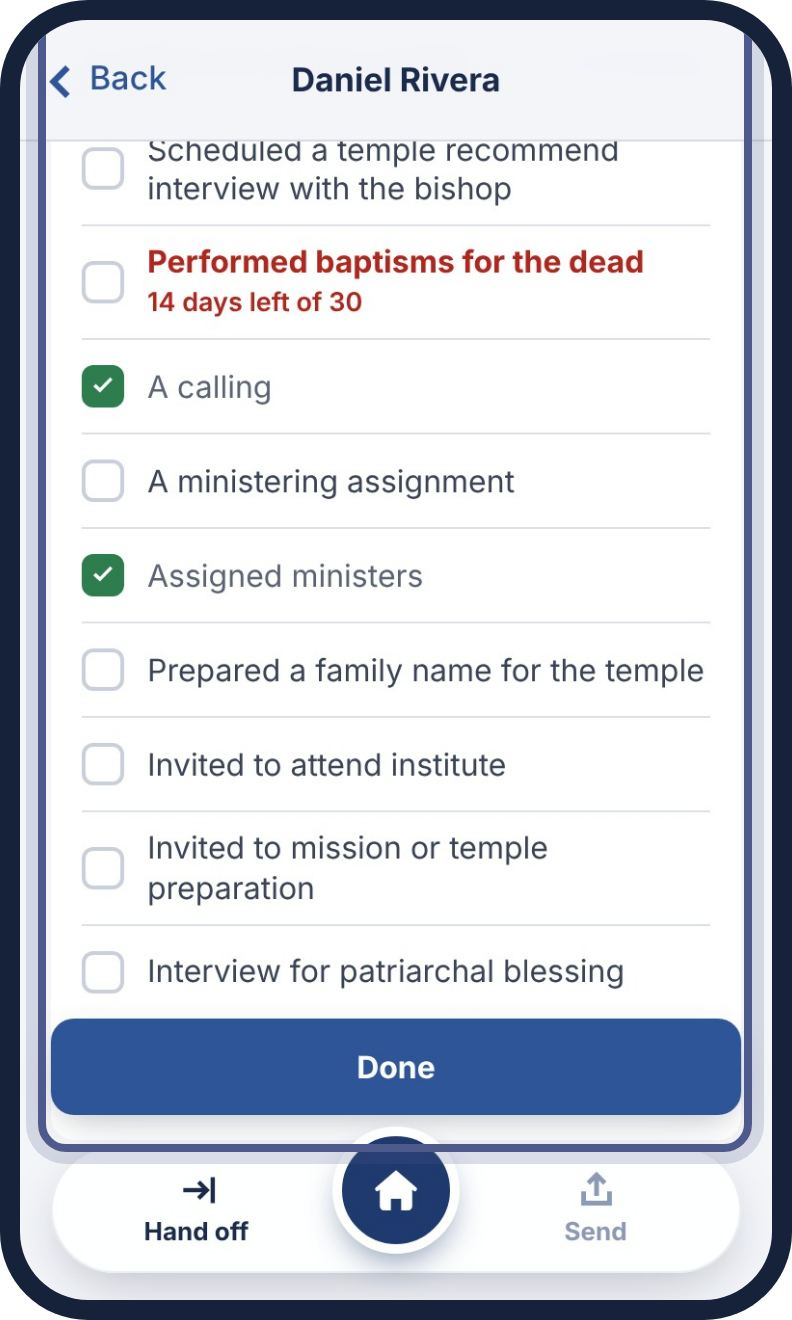
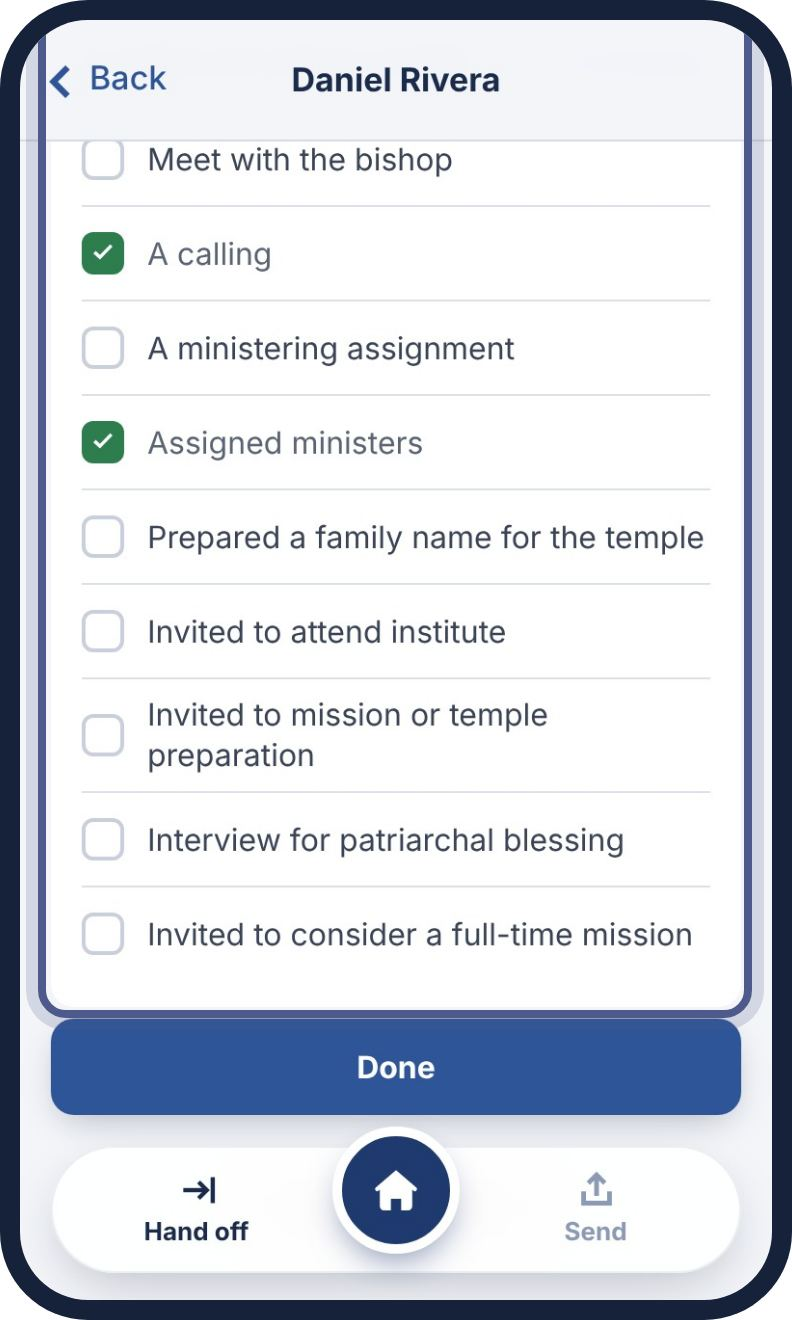
Baptisms for the dead under the baptism date until done, Meet with the bishop, What will help clears after a send, ward council's check needs What will help; test copy: open Part-Member Families in Safari
Claude-Session: https://claude.ai/code/session_01PW98YcMvh8WynmxGN9Y5LD

Changed region(s): [[0.0303, 0.0932, 0.9697, 0.9008], [0.697, 0.3727, 0.8788, 0.4348]]

diff --git a/try/app.js b/try/app.js
@@ -122,7 +122,7 @@
    * A new member's "Performed baptisms for the dead" is the temple check (a.temple), with its 30-day countdown. */
   var CHECKLISTS = {
     nm: [
-      { k: 'recint', t: 'Scheduled a temple recommend interview with the bishop', help: 'Schedule a temple recommend interview with the bishop' },
+      { k: 'recint', t: 'Meet with the bishop', help: 'Meet with the bishop' },
       { k: 'bfd', t: 'Performed baptisms for the dead', help: 'Perform baptisms for the dead', temple: true },
       { k: 'calling', t: 'A calling', help: 'A calling' },
       { k: 'minassign', t: 'A ministering assignment', help: 'A ministering assignment' },
@@ -141,7 +141,7 @@
       { k: 'minassign', t: 'A ministering assignment', help: 'A ministering assignment' },
       { k: 'ministers', t: 'Assigned ministers', help: 'Assigned ministers' },
       { k: 'famname', t: 'Prepared a family name for the temple', help: 'Prepare a family name for the temple' },
-      { k: 'recint', t: 'Scheduled a temple recommend interview with the bishop', help: 'Schedule a temple recommend interview with the bishop' },
+      { k: 'recint', t: 'Meet with the bishop', help: 'Meet with the bishop' },
       { k: 'bfd', t: 'Performed baptisms for the dead', help: 'Perform baptisms for the dead' },
       { k: 'endow', t: 'Received endowment', help: 'Receive the endowment', opt: true },
       { k: 'sealparents', t: 'Sealed to parents', help: 'Be sealed to parents', opt: true },
@@ -158,10 +158,10 @@
   var ORD_IDEAS = {
     'Baptism': { label: 'Ideas for baptism', items: ['Attend sacrament meeting', 'Friends at church', 'Meet the bishop', 'Participate in family history'] },
     'Sacrament': { label: 'Ideas for the sacrament', items: ['Friends at church', 'Assigned ministers', 'A calling'] },
-    'Baptisms for the dead': { label: 'Ideas for baptisms for the dead', items: ['Schedule a temple recommend interview with the bishop', 'Prepare a family name for the temple'] },
+    'Baptisms for the dead': { label: 'Ideas for baptisms for the dead', items: ['Meet with the bishop', 'Prepare a family name for the temple'] },
     'Priesthood advancement': { label: 'Ideas for priesthood advancement', items: ['Meet the bishop', 'Friends at church', 'Assigned ministers', 'A calling'] },
-    'Endowment': { label: 'Ideas for the endowment', items: ['Schedule a temple recommend interview with the bishop', 'Invite to temple preparation', 'Prepare a family name for the temple'] },
-    'Sealing': { label: 'Ideas for sealing', items: ['Schedule a temple recommend interview with the bishop', 'Invite to temple preparation'] }
+    'Endowment': { label: 'Ideas for the endowment', items: ['Meet with the bishop', 'Invite to temple preparation', 'Prepare a family name for the temple'] },
+    'Sealing': { label: 'Ideas for sealing', items: ['Meet with the bishop', 'Invite to temple preparation'] }
   };
   var CHECK_KEYS = {}; Object.keys(CHECKLISTS).forEach(function (g) { CHECKLISTS[g].forEach(function (c) { CHECK_KEYS[c.k] = 1; }); });
   function cleanChecks(c) {
@@ -964,6 +964,7 @@
         zoneLabel('bw', 'Covenant Path Report'),
         h('div', { class: 'card-grid' }, [
           g === 'nm' ? field('Baptism date', base + 'bap', { type: 'date', full: true }) : null,
+          g === 'nm' && !a.temple ? h('ul', { class: 'ck-list full ck-up' }, [ckRow(g, r.i, a, CHECKLISTS.nm.filter(function (c) { return c.temple; })[0])]) : null,
           // Those being taught: a baptism date means they're committed (left blank until they are)
           g === 'bt' ? field('Baptism date', base + 'bap', { type: 'date', full: true }) : null,
           g === 'bt' ? field('Next scheduled appointment', base + 'appt', { type: 'date', full: true }) : null
@@ -977,7 +978,12 @@
     var cc = checkCount(a, g);
     return h('div', { class: 'card-zone zone-bw-wrap checklist' }, [
       h('div', { class: 'zone-label-row' }, [zoneLabel('bw', 'Check off what’s done'), h('span', { class: 'ck-count', text: cc.done + ' of ' + cc.of + ' done' })]),
-      h('ul', { class: 'ck-list' }, (CHECKLISTS[g] || []).map(function (c) {
+      h('ul', { class: 'ck-list' }, (CHECKLISTS[g] || []).filter(function (c) { return !bfdUp(g, a, c); }).map(function (c) { return ckRow(g, i, a, c); }))
+    ]);
+  }
+  // A new member's baptisms for the dead sits right under the baptism date until it's done (the user decided, Nov 18, 2026).
+  function bfdUp(g, a, c) { return !!c.temple && g === 'nm' && !a.temple; }
+  function ckRow(g, i, a, c) {
         var v = checkOf(a, g, c), sub = null;
         if (c.temple && g === 'nm') { var st = templeStatus(a, state.date); if (!v) sub = h('span', { class: 'ck-sub due', text: st.text }); }
         return h('li', { class: 'ck-li' + (v === true ? ' is-done' : v === 'na' ? ' is-na' : '') + (c.temple && g === 'nm' && !v ? ' is-temple' : '') }, [
@@ -987,8 +993,6 @@
           ]),
           c.opt ? h('button', { type: 'button', class: 'ck-na', 'aria-pressed': v === 'na' ? 'true' : 'false', 'data-action': 'check-na', 'data-a': g + '|' + i, 'data-b': c.k, text: 'Doesn’t apply' }) : null
         ]);
-      }))
-    ]);
   }
   // "Attended sacrament" checkbox in the top right of each name card.
   function sacToggle(path, on) {
@@ -1959,10 +1963,11 @@
       return { done: n, of: STEPS.length, text: n === STEPS.length ? 'All ' + n + ' sections done' : n + ' of ' + STEPS.length + ' sections done' };
     }
     if (key !== 'wc') return null;
-    var named = allNames().map(function (x) { return { a: x.a, g: x.gid }; }).concat(state.tn.filter(function (a) { return str(a.name).trim(); }).map(function (a) { return { a: a, g: 'tn' }; }));
-    if (!named.length) return null;
-    var have = named.filter(function (x) { return ordOf(x.a, x.g); }).length, all = have === named.length;
-    return { done: have, of: named.length, text: all ? (have === 1 ? 'The 1 name has a next ordinance' : 'All ' + have + ' names have a next ordinance') : have + ' of ' + named.length + ' names have a next ordinance' };
+    // Ward council is done when every focus name has What will help (it clears after each send, so the check does too).
+    var fn = state.tn.filter(function (a) { return str(a.name).trim(); });
+    if (!fn.length) return null;
+    var have = fn.filter(function (a) { return str(a.need).trim(); }).length, all = have === fn.length;
+    return { done: have, of: fn.length, text: all ? (have === 1 ? 'The focus name has What will help' : 'All ' + have + ' focus names have What will help') : have + ' of ' + fn.length + ' focus names have What will help' };
   }
   function renderHeroes() {
     Array.prototype.forEach.call(document.querySelectorAll('[data-hero]'), function (el) {
@@ -2288,7 +2293,7 @@
 
   // The two doors on the opening screen say where things stand.
   // The opening screen's four steps as a timeline: each is done, or the first one not done is "Up next".
-  // Ward council is done when every name has a next ordinance; the Huddle when all five sections are marked done.
+  // Ward council is done when every focus name has What will help; the Huddle when all its sections are marked done.
   function stepsDoneState() {
     var wc = heroProgress('wc'), hd = heroProgress('hd');
     return [!!state.verified.before, !!(wc && wc.done === wc.of), !!(hd && hd.done === hd.of), !!state.verified.after];
@@ -3274,7 +3279,7 @@
     { k: 'Step 1 · Before ward council', t: 'The opening screen has four steps, in order. Tap **Step 1 · Before ward council**.', target: '#before-box', done: function () { return view === 'bw' || state.verified.before; } },
     { k: 'Step 1 · Before ward council', t: 'Before ward council mirrors the Covenant Path Report. Tap a name and check off what they’ve done, then tap **Mark done** at the bottom.', target: '#before-done-btn', done: function () { return !!state.verified.before; } },
     { k: 'Step 2 · Ward council', t: 'Step 1 has its green check. Now tap **Step 2 · Ward council**.', target: '.door-wc', done: function () { return view === 'wc' || isWcList(view) || view === 'p-wc'; } },
-    { k: 'Step 2 · Ward council', t: 'Ward council identifies focus names; **Open Part-Member Families** helps find names, and for ideas tap **How can we help?** on a list. Tap **Focus names**, then **Samuel Ortiz**, choose his next ordinance and add **What will help**. Never add confidential information to this huddle report.', target: ['[data-wc="tn"] [data-b="1"]', '[data-action="open-wc-list"][data-a="tn"]', '#person-card select'], done: function () { var a = state.tn[1]; return !!(a && ORDINANCES.indexOf(str(a.ordinance)) >= 0); } },
+    { k: 'Step 2 · Ward council', t: 'Ward council identifies focus names; **Open Part-Member Families** helps find names, and for ideas tap **How can we help?** on a list. Tap **Focus names**, then **Samuel Ortiz**, choose his next ordinance and add **What will help**. Never add confidential information to this huddle report.', target: ['[data-wc="tn"] [data-b="1"]', '[data-action="open-wc-list"][data-a="tn"]', '#person-card select'], done: function () { var a = state.tn[1]; return !!(a && ORDINANCES.indexOf(str(a.ordinance)) >= 0 && str(a.need).trim()); } },
     { k: 'Step 2 · Ward council', t: 'Names marked **Suggested focus name** are pressing. Tap **Done**, then **Back**, **Covenant Path Report** and **Daniel Rivera**, and tap **Make focus name**.', target: ['#person-card [data-action="make-focus"]', '[data-wc="nm"] [data-b="0"]', '[data-action="open-wc-list"][data-a="cp"]', '#person-view .person-done', '.step-back'], done: function () { return focusIndex('Daniel Rivera') >= 0; } },
     { k: 'Step 3 · Huddle', t: 'Every name has a next ordinance, so Step 2 is done. Tap **Home** at the bottom, then **Step 3 · Huddle**.', target: ['.nav-home:not(.is-here)', '.door-hd'], done: function () { return view === 'home'; } },
     { k: 'Step 3 · Huddle', t: 'Tap **Huddle Attendees** and tap who came. Tap **both youth**, the priests quorum assistant and the Gatherers of Light representative: including the youth matters.', target: ['#attendee-list', '#details-summary'], done: function () { return state.attendees.indexOf('pqa') >= 0 && state.attendees.indexOf('gol') >= 0; } },
@@ -3430,7 +3435,7 @@
       var cur = state.cp[g.id].filter(function (a) { return a.sac || hasText(a, CARD_KEYS); });
       names.forEach(function (n) {
         if (cur.some(function (a) { return norm(a.name) === norm(n); })) return;
-        var c = blankAction(); c.name = n; c.ordinance = info[norm(n)].ordinance; c.need = info[norm(n)].need; c.hneed = info[norm(n)].hneed; c.carried = true; c.touched = info[norm(n)].touched; c.lastSac = info[norm(n)].sac; c.checks = info[norm(n)].checks;
+        var c = blankAction(); c.name = n; c.ordinance = info[norm(n)].ordinance; c.hneed = info[norm(n)].hneed; c.carried = true; c.touched = info[norm(n)].touched; c.lastSac = info[norm(n)].sac; c.checks = info[norm(n)].checks;
         if (g.id === 'nm') { c.bap = info[norm(n)].bap; c.temple = info[norm(n)].temple; }
         if (g.id === 'bt') { c.bap = info[norm(n)].bap; c.committed = info[norm(n)].committed; c.appt = apptNote({ appt: info[norm(n)].appt }) ? info[norm(n)].appt : ''; }
         cur.push(c);
@@ -3444,7 +3449,7 @@
       if (!n || state.tn.some(function (t) { return norm(t.name) === norm(n); })) return;
       var slot = state.tn.findIndex(function (t) { return !t.sac && !hasText(t, CARD_KEYS); });
       if (slot < 0) return;
-      var c = blankName(); c.name = n; c.ordinance = str(a.ordinance).trim(); c.need = str(a.need).trim(); c.hneed = str(a.hneed).trim(); c.carried = true; c.lastSac = !!a.sac;
+      var c = blankName(); c.name = n; c.ordinance = str(a.ordinance).trim(); c.hneed = str(a.hneed).trim(); c.carried = true; c.lastSac = !!a.sac;
       c.touched = parseISO(str(a.touched)) ? str(a.touched) : '';
       state.tn[slot] = c;
       added++;
@@ -3614,6 +3619,11 @@
     if (!opts.practice && !state.ward.trim() && data.ward) { state.ward = str(data.ward); $('#ward').value = state.ward; writeWard(state.ward); }
     var carried = carryNames(data);
     if (opts.practice) state.referrals = cleanReferrals(data.referrals);
+    if (opts.practice) { // What will help clears each week; the practice week keeps the sample ones, except Samuel's (the tour asks for it)
+      var pd = practiceData(), keepNeed = function (list, src) { list.forEach(function (a) { var m = src.filter(function (x) { return norm(x.name) === norm(a.name); })[0];
+        if (m && !str(a.need).trim() && norm(a.name) !== norm('Samuel Ortiz')) a.need = m.need; }); };
+      keepNeed(state.tn, pd.tn); GROUPS.forEach(function (g) { keepNeed(state.cp[g.id], pd.cp[g.id] || []); });
+    }
     renderRR(); renderCP(); renderTN(); renderMR(); saveDraft();
     toast(opts.practice ? 'Practice week loaded: sample names, with ' + items.length + ' sample assignments in Return and Report.'
       : 'Loaded ' + items.length + (items.length === 1 ? ' action item' : ' action items') +
@@ -4709,6 +4719,9 @@
       if (top) dismissSheet(top);
     });
     enableSwipeDown(); enableSwipeRemove();
+    // Test copy only: on an iPhone Home Screen app, open Part-Member Families in Safari itself instead of the panel
+    // over the app, using an unofficial link form (x-safari-https://). If the phone ignores it, the link works as before.
+    try { var pmfL = document.getElementById('wc-pmf'); if (pmfL && (navigator.standalone || matchMedia('(display-mode: standalone)').matches) && /iPhone|iPad|iPod/.test(navigator.userAgent) && /^https:/.test(pmfL.href)) { pmfL.href = 'x-safari-' + pmfL.href; pmfL.removeAttribute('target'); } } catch (e) { /* ignore */ }
     // The opening picture stays a moment (about a second and a half from launch), then fades away.
     var splash = $('#splash');
     if (splash) setTimeout(function () { splash.classList.add('out'); setTimeout(function () { splash.remove(); }, 450); }, 1100);

diff --git a/app.js b/app.js
@@ -122,7 +122,7 @@
    * A new member's "Performed baptisms for the dead" is the temple check (a.temple), with its 30-day countdown. */
   var CHECKLISTS = {
     nm: [
-      { k: 'recint', t: 'Scheduled a temple recommend interview with the bishop', help: 'Schedule a temple recommend interview with the bishop' },
+      { k: 'recint', t: 'Meet with the bishop', help: 'Meet with the bishop' },
       { k: 'bfd', t: 'Performed baptisms for the dead', help: 'Perform baptisms for the dead', temple: true },
       { k: 'calling', t: 'A calling', help: 'A calling' },
       { k: 'minassign', t: 'A ministering assignment', help: 'A ministering assignment' },
@@ -141,7 +141,7 @@
       { k: 'minassign', t: 'A ministering assignment', help: 'A ministering assignment' },
       { k: 'ministers', t: 'Assigned ministers', help: 'Assigned ministers' },
       { k: 'famname', t: 'Prepared a family name for the temple', help: 'Prepare a family name for the temple' },
-      { k: 'recint', t: 'Scheduled a temple recommend interview with the bishop', help: 'Schedule a temple recommend interview with the bishop' },
+      { k: 'recint', t: 'Meet with the bishop', help: 'Meet with the bishop' },
       { k: 'bfd', t: 'Performed baptisms for the dead', help: 'Perform baptisms for the dead' },
       { k: 'endow', t: 'Received endowment', help: 'Receive the endowment', opt: true },
       { k: 'sealparents', t: 'Sealed to parents', help: 'Be sealed to parents', opt: true },
@@ -158,10 +158,10 @@
   var ORD_IDEAS = {
     'Baptism': { label: 'Ideas for baptism', items: ['Attend sacrament meeting', 'Friends at church', 'Meet the bishop', 'Participate in family history'] },
     'Sacrament': { label: 'Ideas for the sacrament', items: ['Friends at church', 'Assigned ministers', 'A calling'] },
-    'Baptisms for the dead': { label: 'Ideas for baptisms for the dead', items: ['Schedule a temple recommend interview with the bishop', 'Prepare a family name for the temple'] },
+    'Baptisms for the dead': { label: 'Ideas for baptisms for the dead', items: ['Meet with the bishop', 'Prepare a family name for the temple'] },
     'Priesthood advancement': { label: 'Ideas for priesthood advancement', items: ['Meet the bishop', 'Friends at church', 'Assigned ministers', 'A calling'] },
-    'Endowment': { label: 'Ideas for the endowment', items: ['Schedule a temple recommend interview with the bishop', 'Invite to temple preparation', 'Prepare a family name for the temple'] },
-    'Sealing': { label: 'Ideas for sealing', items: ['Schedule a temple recommend interview with the bishop', 'Invite to temple preparation'] }
+    'Endowment': { label: 'Ideas for the endowment', items: ['Meet with the bishop', 'Invite to temple preparation', 'Prepare a family name for the temple'] },
+    'Sealing': { label: 'Ideas for sealing', items: ['Meet with the bishop', 'Invite to temple preparation'] }
   };
   var CHECK_KEYS = {}; Object.keys(CHECKLISTS).forEach(function (g) { CHECKLISTS[g].forEach(function (c) { CHECK_KEYS[c.k] = 1; }); });
   function cleanChecks(c) {
@@ -964,6 +964,7 @@
         zoneLabel('bw', 'Covenant Path Report'),
         h('div', { class: 'card-grid' }, [
           g === 'nm' ? field('Baptism date', base + 'bap', { type: 'date', full: true }) : null,
+          g === 'nm' && !a.temple ? h('ul', { class: 'ck-list full ck-up' }, [ckRow(g, r.i, a, CHECKLISTS.nm.filter(function (c) { return c.temple; })[0])]) : null,
           // Those being taught: a baptism date means they're committed (left blank until they are)
           g === 'bt' ? field('Baptism date', base + 'bap', { type: 'date', full: true }) : null,
           g === 'bt' ? field('Next scheduled appointment', base + 'appt', { type: 'date', full: true }) : null
@@ -977,7 +978,12 @@
     var cc = checkCount(a, g);
     return h('div', { class: 'card-zone zone-bw-wrap checklist' }, [
       h('div', { class: 'zone-label-row' }, [zoneLabel('bw', 'Check off what’s done'), h('span', { class: 'ck-count', text: cc.done + ' of ' + cc.of + ' done' })]),
-      h('ul', { class: 'ck-list' }, (CHECKLISTS[g] || []).map(function (c) {
+      h('ul', { class: 'ck-list' }, (CHECKLISTS[g] || []).filter(function (c) { return !bfdUp(g, a, c); }).map(function (c) { return ckRow(g, i, a, c); }))
+    ]);
+  }
+  // A new member's baptisms for the dead sits right under the baptism date until it's done (the user decided, Nov 18, 2026).
+  function bfdUp(g, a, c) { return !!c.temple && g === 'nm' && !a.temple; }
+  function ckRow(g, i, a, c) {
         var v = checkOf(a, g, c), sub = null;
         if (c.temple && g === 'nm') { var st = templeStatus(a, state.date); if (!v) sub = h('span', { class: 'ck-sub due', text: st.text }); }
         return h('li', { class: 'ck-li' + (v === true ? ' is-done' : v === 'na' ? ' is-na' : '') + (c.temple && g === 'nm' && !v ? ' is-temple' : '') }, [
@@ -987,8 +993,6 @@
           ]),
           c.opt ? h('button', { type: 'button', class: 'ck-na', 'aria-pressed': v === 'na' ? 'true' : 'false', 'data-action': 'check-na', 'data-a': g + '|' + i, 'data-b': c.k, text: 'Doesn’t apply' }) : null
         ]);
-      }))
-    ]);
   }
   // "Attended sacrament" checkbox in the top right of each name card.
   function sacToggle(path, on) {
@@ -1959,10 +1963,11 @@
       return { done: n, of: STEPS.length, text: n === STEPS.length ? 'All ' + n + ' sections done' : n + ' of ' + STEPS.length + ' sections done' };
     }
     if (key !== 'wc') return null;
-    var named = allNames().map(function (x) { return { a: x.a, g: x.gid }; }).concat(state.tn.filter(function (a) { return str(a.name).trim(); }).map(function (a) { return { a: a, g: 'tn' }; }));
-    if (!named.length) return null;
-    var have = named.filter(function (x) { return ordOf(x.a, x.g); }).length, all = have === named.length;
-    return { done: have, of: named.length, text: all ? (have === 1 ? 'The 1 name has a next ordinance' : 'All ' + have + ' names have a next ordinance') : have + ' of ' + named.length + ' names have a next ordinance' };
+    // Ward council is done when every focus name has What will help (it clears after each send, so the check does too).
+    var fn = state.tn.filter(function (a) { return str(a.name).trim(); });
+    if (!fn.length) return null;
+    var have = fn.filter(function (a) { return str(a.need).trim(); }).length, all = have === fn.length;
+    return { done: have, of: fn.length, text: all ? (have === 1 ? 'The focus name has What will help' : 'All ' + have + ' focus names have What will help') : have + ' of ' + fn.length + ' focus names have What will help' };
   }
   function renderHeroes() {
     Array.prototype.forEach.call(document.querySelectorAll('[data-hero]'), function (el) {
@@ -2288,7 +2293,7 @@
 
   // The two doors on the opening screen say where things stand.
   // The opening screen's four steps as a timeline: each is done, or the first one not done is "Up next".
-  // Ward council is done when every name has a next ordinance; the Huddle when all five sections are marked done.
+  // Ward council is done when every focus name has What will help; the Huddle when all its sections are marked done.
   function stepsDoneState() {
     var wc = heroProgress('wc'), hd = heroProgress('hd');
     return [!!state.verified.before, !!(wc && wc.done === wc.of), !!(hd && hd.done === hd.of), !!state.verified.after];
@@ -3274,7 +3279,7 @@
     { k: 'Step 1 · Before ward council', t: 'The opening screen has four steps, in order. Tap **Step 1 · Before ward council**.', target: '#before-box', done: function () { return view === 'bw' || state.verified.before; } },
     { k: 'Step 1 · Before ward council', t: 'Before ward council mirrors the Covenant Path Report. Tap a name and check off what they’ve done, then tap **Mark done** at the bottom.', target: '#before-done-btn', done: function () { return !!state.verified.before; } },
     { k: 'Step 2 · Ward council', t: 'Step 1 has its green check. Now tap **Step 2 · Ward council**.', target: '.door-wc', done: function () { return view === 'wc' || isWcList(view) || view === 'p-wc'; } },
-    { k: 'Step 2 · Ward council', t: 'Ward council identifies focus names; **Open Part-Member Families** helps find names, and for ideas tap **How can we help?** on a list. Tap **Focus names**, then **Samuel Ortiz**, choose his next ordinance and add **What will help**. Never add confidential information to this huddle report.', target: ['[data-wc="tn"] [data-b="1"]', '[data-action="open-wc-list"][data-a="tn"]', '#person-card select'], done: function () { var a = state.tn[1]; return !!(a && ORDINANCES.indexOf(str(a.ordinance)) >= 0); } },
+    { k: 'Step 2 · Ward council', t: 'Ward council identifies focus names; **Open Part-Member Families** helps find names, and for ideas tap **How can we help?** on a list. Tap **Focus names**, then **Samuel Ortiz**, choose his next ordinance and add **What will help**. Never add confidential information to this huddle report.', target: ['[data-wc="tn"] [data-b="1"]', '[data-action="open-wc-list"][data-a="tn"]', '#person-card select'], done: function () { var a = state.tn[1]; return !!(a && ORDINANCES.indexOf(str(a.ordinance)) >= 0 && str(a.need).trim()); } },
     { k: 'Step 2 · Ward council', t: 'Names marked **Suggested focus name** are pressing. Tap **Done**, then **Back**, **Covenant Path Report** and **Daniel Rivera**, and tap **Make focus name**.', target: ['#person-card [data-action="make-focus"]', '[data-wc="nm"] [data-b="0"]', '[data-action="open-wc-list"][data-a="cp"]', '#person-view .person-done', '.step-back'], done: function () { return focusIndex('Daniel Rivera') >= 0; } },
     { k: 'Step 3 · Huddle', t: 'Every name has a next ordinance, so Step 2 is done. Tap **Home** at the bottom, then **Step 3 · Huddle**.', target: ['.nav-home:not(.is-here)', '.door-hd'], done: function () { return view === 'home'; } },
     { k: 'Step 3 · Huddle', t: 'Tap **Huddle Attendees** and tap who came. Tap **both youth**, the priests quorum assistant and the Gatherers of Light representative: including the youth matters.', target: ['#attendee-list', '#details-summary'], done: function () { return state.attendees.indexOf('pqa') >= 0 && state.attendees.indexOf('gol') >= 0; } },
@@ -3430,7 +3435,7 @@
       var cur = state.cp[g.id].filter(function (a) { return a.sac || hasText(a, CARD_KEYS); });
       names.forEach(function (n) {
         if (cur.some(function (a) { return norm(a.name) === norm(n); })) return;
-        var c = blankAction(); c.name = n; c.ordinance = info[norm(n)].ordinance; c.need = info[norm(n)].need; c.hneed = info[norm(n)].hneed; c.carried = true; c.touched = info[norm(n)].touched; c.lastSac = info[norm(n)].sac; c.checks = info[norm(n)].checks;
+        var c = blankAction(); c.name = n; c.ordinance = info[norm(n)].ordinance; c.hneed = info[norm(n)].hneed; c.carried = true; c.touched = info[norm(n)].touched; c.lastSac = info[norm(n)].sac; c.checks = info[norm(n)].checks;
         if (g.id === 'nm') { c.bap = info[norm(n)].bap; c.temple = info[norm(n)].temple; }
         if (g.id === 'bt') { c.bap = info[norm(n)].bap; c.committed = info[norm(n)].committed; c.appt = apptNote({ appt: info[norm(n)].appt }) ? info[norm(n)].appt : ''; }
         cur.push(c);
@@ -3444,7 +3449,7 @@
       if (!n || state.tn.some(function (t) { return norm(t.name) === norm(n); })) return;
       var slot = state.tn.findIndex(function (t) { return !t.sac && !hasText(t, CARD_KEYS); });
       if (slot < 0) return;
-      var c = blankName(); c.name = n; c.ordinance = str(a.ordinance).trim(); c.need = str(a.need).trim(); c.hneed = str(a.hneed).trim(); c.carried = true; c.lastSac = !!a.sac;
+      var c = blankName(); c.name = n; c.ordinance = str(a.ordinance).trim(); c.hneed = str(a.hneed).trim(); c.carried = true; c.lastSac = !!a.sac;
       c.touched = parseISO(str(a.touched)) ? str(a.touched) : '';
       state.tn[slot] = c;
       added++;
@@ -3614,6 +3619,11 @@
     if (!opts.practice && !state.ward.trim() && data.ward) { state.ward = str(data.ward); $('#ward').value = state.ward; writeWard(state.ward); }
     var carried = carryNames(data);
     if (opts.practice) state.referrals = cleanReferrals(data.referrals);
+    if (opts.practice) { // What will help clears each week; the practice week keeps the sample ones, except Samuel's (the tour asks for it)
+      var pd = practiceData(), keepNeed = function (list, src) { list.forEach(function (a) { var m = src.filter(function (x) { return norm(x.name) === norm(a.name); })[0];
+        if (m && !str(a.need).trim() && norm(a.name) !== norm('Samuel Ortiz')) a.need = m.need; }); };
+      keepNeed(state.tn, pd.tn); GROUPS.forEach(function (g) { keepNeed(state.cp[g.id], pd.cp[g.id] || []); });
+    }
     renderRR(); renderCP(); renderTN(); renderMR(); saveDraft();
     toast(opts.practice ? 'Practice week loaded: sample names, with ' + items.length + ' sample assignments in Return and Report.'
       : 'Loaded ' + items.length + (items.length === 1 ? ' action item' : ' action items') +

diff --git a/test/fields.js b/test/fields.js
@@ -65,7 +65,7 @@ const txt = f => execFileSync('pdftotext', ['-raw', f, '-']).toString();
   ok('no sacrament line when not checked', c1.includes('Next: Baptism') && !c1.includes('Attended sacrament'));
   const c2 = (await p.textContent('#rr-list .rr-card >> nth=2')).replace(/\s+/g, ' ');
   ok('3 Names item carries need and sacrament', c2.includes('Next: Endowment') && c2.includes('What will help: Temple prep class') && c2.includes('Attended sacrament'));
-  ok('carried name keeps next ordinance and need, sacrament starts blank', (await p.inputValue('[data-bind="cp.nm.0.name"]')) === 'Maria Lopez' && (await p.inputValue('[data-bind="cp.nm.0.ordinance"]')) === 'Temple recommend' && (await p.inputValue('[data-bind="cp.nm.0.need"]')) === 'A friend in Relief Society' && !(await p.isChecked('[data-bind="cp.nm.0.sac"]')));
+  ok('carried name keeps next ordinance; What will help and sacrament start blank', (await p.inputValue('[data-bind="cp.nm.0.name"]')) === 'Maria Lopez' && (await p.inputValue('[data-bind="cp.nm.0.ordinance"]')) === 'Temple recommend' && (await p.inputValue('[data-bind="cp.nm.0.need"]')) === '' && !(await p.isChecked('[data-bind="cp.nm.0.sac"]')));
   await p.click('[data-action="happened"][data-a="2"][data-b="No"]'); await p.click('[data-action="carry-fwd"][data-a="2"]');
   ok('carry forward fills 3 Names with ordinance and need', (await p.inputValue('[data-bind="tn.0.name"]')) === 'Ana Ruiz' && (await p.inputValue('[data-bind="tn.0.need"]')) === 'Temple prep class');
   await p.locator('#rr-list .rr-card').first().screenshot({ path: OUT + '/rr.png' });
@@ -73,7 +73,7 @@ const txt = f => execFileSync('pdftotext', ['-raw', f, '-']).toString();
   await p.evaluate(async () => { const settle = () => new Promise(r => setTimeout(r, 150)); const m = document.querySelector('#mode-bar'), g = m && !m.hidden && m.querySelector('[data-action="go-start"]'); if (g) { g.click(); await settle(); } const ab = document.querySelector('#after-box'); if (ab && !ab.classList.contains('done')) { document.querySelector('[data-action="open-after"]').click(); await settle(); document.querySelector('[data-action="after-done"]').click(); await settle(); } }).then(() => p.click('.actionbar [data-action="send"]')).then(() => sendAnyway(p)); await p.waitForSelector('#share-btn:not([disabled])');
   const [d2] = await Promise.all([p.waitForEvent('download'), p.click('#share-btn')]); await d2.saveAs(OUT + '/w2.pdf');
   const t2 = txt(OUT + '/w2.pdf').replace(/\s+/g, ' ');
-  ok('week 2 PDF: Return and Report row plus details in this week\'s table', t2.includes('Maria Lopez') && t2.includes('Invite to RS dinner') && /Sister Jensen · Thu(rsday|, [A-Z][a-z]{2} \d{1,2})/.test(t2) && t2.includes('Temple recommend') && t2.includes('A friend in Relief Society'), t2.slice(t2.indexOf('Maria'), t2.indexOf('Maria') + 160));
+  ok('week 2 PDF: Return and Report row plus details in this week\'s table', t2.includes('Maria Lopez') && t2.includes('Invite to RS dinner') && /Sister Jensen · Thu(rsday|, [A-Z][a-z]{2} \d{1,2})/.test(t2) && t2.includes('Temple recommend'), t2.slice(t2.indexOf('Maria'), t2.indexOf('Maria') + 160));
   execFileSync('pdftoppm', ['-r', '90', '-png', '-singlefile', OUT + '/w2.pdf', OUT + '/w2']);
   console.log('pages w1/w2:', /Pages:\s+(\d+)/.exec(execFileSync('pdfinfo', [OUT + '/w1.pdf']).toString())[1], /Pages:\s+(\d+)/.exec(execFileSync('pdfinfo', [OUT + '/w2.pdf']).toString())[1]);
   console.log('PROBLEMS:', errs.length ? errs : 'none'); console.log(`${res.filter(Boolean).length}/${res.length} checks passed`);

diff --git a/test/twodoor.js b/test/twodoor.js
@@ -90,7 +90,7 @@ const OUT = 'test/out-twodoor'; fs.mkdirSync(OUT, { recursive: true });
     // A new member from the report: the four things, on the person's own screen
     await p.click('#before-list [data-action="add-person"][data-a="nm"]'); await p.waitForSelector('#person-view:not([hidden])'); await p.waitForTimeout(250);
     ok((await p.textContent('#step-title')) === 'New name' && await p.evaluate(() => document.activeElement && document.activeElement.getAttribute('data-bind')) === 'cp.nm.0.name' && await p.locator('#person-card .person-bw').count() === 1 && !(await vis('#bw-view')), tag + ': Add a name opens a new person on their own screen, with the cursor in Name');
-    ok((await p.$$eval('#person-card [data-bind]', e => e.map(x => x.getAttribute('data-bind').split('.').pop()).join('|'))) === 'name|bap' && (await p.textContent('#person-card .zone-label')).trim() === 'Covenant Path Report' && (await p.$$eval('#person-card .ck-t', e => e.map(x => x.textContent).join('|'))) === 'Scheduled a temple recommend interview with the bishop|Performed baptisms for the dead|A calling|A ministering assignment|Assigned ministers|Prepared a family name for the temple|Invited to attend institute|Invited to mission or temple preparation|Interview for patriarchal blessing|Invited to consider a full-time mission', tag + ': a new member has name, baptism date and the new member checklist (no next ordinance, needs or sacrament)');
+    ok((await p.$$eval('#person-card [data-bind]', e => e.map(x => x.getAttribute('data-bind').split('.').pop()).join('|'))) === 'name|bap' && (await p.textContent('#person-card .zone-label')).trim() === 'Covenant Path Report' && (await p.$$eval('#person-card .ck-t', e => e.map(x => x.textContent).join('|'))) === 'Performed baptisms for the dead|Meet with the bishop|A calling|A ministering assignment|Assigned ministers|Prepared a family name for the temple|Invited to attend institute|Invited to mission or temple preparation|Interview for patriarchal blessing|Invited to consider a full-time mission', tag + ': a new member has name, baptism date and the new member checklist (no next ordinance, needs or sacrament)');
     await fill('cp.nm.0.name', 'Daniel Rivera'); await fill('cp.nm.0.bap', daysAgo(12)); await p.evaluate(() => document.activeElement && document.activeElement.blur()); await p.waitForTimeout(200);
     await p.click('[data-action="check-item"][data-b="calling"]'); await p.waitForTimeout(250);
     ok((await p.textContent('#step-title')) === 'Daniel Rivera' && (await p.textContent('#person-card .ck-sub.due')).trim() === '18 days left of 30' && (await p.textContent('#person-card .ck-count')).trim() === '1 of 10 done' && await noOverflow(), tag + ': the screen takes the name, the baptism date starts the 30-day count on Performed baptisms for the dead (in red), and a check counts as done');

diff --git a/test/checklist.js b/test/checklist.js
@@ -71,7 +71,7 @@ const ok = (c, m) => { if (c) { passed++; console.log('PASS ' + m); } else { fai
   ok(!(await p.$('#person-card .help-chips')), 'a focus name that isn’t on the report has no chips until it has a next ordinance');
   await p.selectOption('#person-card [data-bind="tn.1.ordinance"]', 'Endowment'); await w(400);
   const ideas = await p.$$eval('#person-card .help-chips .idea-chip', e => e.map(x => x.textContent));
-  ok(/Ideas for the endowment/.test(await p.textContent('#person-card .help-chips')) && ideas.join('|') === 'Schedule a temple recommend interview with the bishop|Invite to temple preparation|Prepare a family name for the temple', 'a name not on the report gets Ideas for its next ordinance: ' + ideas.join(' | '));
+  ok(/Ideas for the endowment/.test(await p.textContent('#person-card .help-chips')) && ideas.join('|') === 'Meet with the bishop|Invite to temple preparation|Prepare a family name for the temple', 'a name not on the report gets Ideas for its next ordinance: ' + ideas.join(' | '));
   await p.click('#person-view .person-done'); await w(300);
 
   // The Huddle: a focus name has no sacrament box
@@ -127,6 +127,8 @@ const ok = (c, m) => { if (c) { passed++; console.log('PASS ' + m); } else { fai
   st = await saved();
   const ol2 = (st.cp.rm || []).find(x => x.name === 'Olivia Chen') || {};
   ok(ol2.checks && ol2.checks.melch === true && ol2.checks.calling === true && ol2.checks.aaronic === 'na', 'next huddle: the checklist carries over with the name');
+  const ol3 = (st.tn || []).find(x => x.name === 'Olivia Chen') || {};
+  ok(ol3.ordinance === 'Priesthood advancement' && !ol3.need, 'next huddle: the focus name keeps its next ordinance; What will help clears for ward council to choose again');
   const past = (st.find.items || []).filter(x => x.past);
   const ri = (st.rr || []).findIndex(r => /Each family invites one friend/.test(r.action || ''));
   ok(past.length === 1 && past[0].opp === 'o1' && ri >= 0 && st.rr[ri].fid === past[0].id, 'next huddle: the assignment stays on the opportunity and comes back in Return and Report');

diff --git a/test/lively.js b/test/lively.js
@@ -74,7 +74,7 @@ const seed = {
     await p.click('#mode-bar [data-action="go-start"]'); await p.waitForSelector('#start-home:not([hidden])'); await p.waitForTimeout(200);
     // Ward council
     await p.click('.door-wc'); await p.waitForTimeout(350);
-    ok(await p.isVisible('#wc-hero') && (await p.textContent('#wc-hero .hero-count')) === '6 of 7 names have a next ordinance' && (await p.$$eval('#wc-rows .row-icon', e => e.length)) === 3 && await fits(), dev + ': Ward council header card and three icons');
+    ok(await p.isVisible('#wc-hero') && /^(\d+ of \d+ focus names have What will help|All \d+ focus names have What will help|The focus name has What will help)$/.test(await p.textContent('#wc-hero .hero-count')) && (await p.$$eval('#wc-rows .row-icon', e => e.length)) === 3 && await fits(), dev + ': Ward council header card and three icons');
     ok(!(await p.$('#wc-note')) && await p.isVisible('#wc-pmf'), dev + ': no confidential line under the step card; Part-Member Families sits above the rows');
     await p.click('#mode-bar [data-action="go-start"]'); await p.waitForSelector('#start-home:not([hidden])'); await p.waitForTimeout(200);
     // Every page fits

diff --git a/test/live.js b/test/live.js
@@ -86,7 +86,7 @@ const daysAgo = n => { const d = new Date(); d.setDate(d.getDate() - n); return 
   ok((await p.textContent('[data-action="carry-fwd"][data-a="0"]')).trim() === 'Carry forward to this huddle', 'Carry forward has no date: ' + await p.textContent('[data-action="carry-fwd"][data-a="0"]'));
   await p.click('[data-action="happened"][data-a="0"][data-b="No"]');
   await open('cp');
-  ok(await p.inputValue('[data-bind="cp.nm.0.name"]') === 'Daniel Rivera' && await p.inputValue('[data-bind="cp.nm.0.need"]') === 'A ride' && await p.inputValue('[data-bind="cp.nm.0.action"]') === '', 'names and needs stay; actions clear');
+  ok(await p.inputValue('[data-bind="cp.nm.0.name"]') === 'Daniel Rivera' && await p.inputValue('[data-bind="cp.nm.0.need"]') === '' && await p.inputValue('[data-bind="cp.nm.0.action"]') === '', 'names stay; What will help and actions clear');
   ok((await p.textContent('[data-group="nm"] .source')).trim() === 'From the last huddle', 'kept names are tagged From the last huddle');
   await open('tn');
   ok(await p.inputValue('[data-bind="tn.0.name"]') === 'Grace Thompson', 'focus names stay');

diff --git a/test/guided.js b/test/guided.js
@@ -45,7 +45,8 @@ const real = { ward: 'Sample Ward', date: '2026-11-15', conducting: 'wml', atten
   ok(/Never add confidential information/.test(await p.textContent('.coach-t')), 'the Ward council card has the confidential warning');
   await p.click('[data-action="open-wc-list"][data-a="tn"]'); await p.waitForTimeout(300);
   await p.click('[data-wc="tn"] [data-action="open-person"][data-b="1"]'); await p.waitForTimeout(400);
-  await p.selectOption('#person-card select[data-bind$=".ordinance"]', 'Priesthood advancement');
+  await p.selectOption('#person-card select[data-bind$=".ordinance"]', 'Priesthood advancement'); await p.waitForTimeout(300);
+  await p.click('#person-card .help-chips .idea-chip >> nth=0'); await p.waitForTimeout(200);
   ok(await waitCoach(5), 'choosing Samuel Ortiz’s next ordinance moves to task 5 (make a focus name)');
   ok(/Suggested focus name/.test(await p.textContent('.coach-t')), 'task 5 explains Suggested focus name');
   await p.click('#person-view .person-done'); await p.waitForTimeout(400);

diff --git a/test/tncarry.js b/test/tncarry.js
@@ -39,7 +39,7 @@ async function freshWeek(pg) { if (await pg.isVisible('#load-panel [data-action=
   const v = await Promise.all(names);
   ok(v[2] === '', 'third spot stays open: ' + v[2]);
   ok(v[0] === 'Grace Thompson' && v[1] === 'Ethan Walker', 'last week’s focus names stay: ' + v.join(', '));
-  ok(await p.inputValue('[data-bind="tn.0.ordinance"]') === 'Endowment' && await p.inputValue('[data-bind="tn.0.need"]') === 'Temple prep class', 'ordinance and need carried');
+  ok(await p.inputValue('[data-bind="tn.0.ordinance"]') === 'Endowment' && await p.inputValue('[data-bind="tn.0.need"]') === '', 'ordinance carried; What will help clears for ward council');
   ok(await p.inputValue('[data-bind="tn.0.action"]') === '', 'action left blank for this week');
   ok(await p.locator('#tn-list .source', { hasText: 'From the last huddle' }).count() === 2, 'marked From the last huddle');
   ok((await p.textContent('#rr-list')).includes('Grace Thompson'), 'Grace’s action is in Return and Report');

diff --git a/try/styles.css b/try/styles.css
@@ -1567,6 +1567,7 @@ html.no-splash .splash { display: none; }
 .fn-line-sub { font-size: 13.5px; color: var(--muted); overflow-wrap: anywhere; }
 .fn-line .wc-status { flex: none; font-weight: 700; }
 .fn-line[open] > .fn-assign { border: 0; border-top: 1px solid var(--card-line); border-radius: 0 0 12px 12px; margin: 0; }
+.ck-up { grid-column: 1 / -1; margin: -2px 0 0; }
 
 /* Test copy only */
 .test-tag { color: #FFD5D5; }

diff --git a/styles.css b/styles.css
@@ -1567,3 +1567,4 @@ html.no-splash .splash { display: none; }
 .fn-line-sub { font-size: 13.5px; color: var(--muted); overflow-wrap: anywhere; }
 .fn-line .wc-status { flex: none; font-weight: 700; }
 .fn-line[open] > .fn-assign { border: 0; border-top: 1px solid var(--card-line); border-radius: 0 0 12px 12px; margin: 0; }
+.ck-up { grid-column: 1 / -1; margin: -2px 0 0; }

diff --git a/try/sw.js b/try/sw.js
@@ -1,5 +1,5 @@
 /* Offline support: caches the page's own files only. It never stores form data. */
-var CACHE = 'huddle-test-v14';
+var CACHE = 'huddle-test-v15';
 var FILES = [
   './',
   'index.html',
